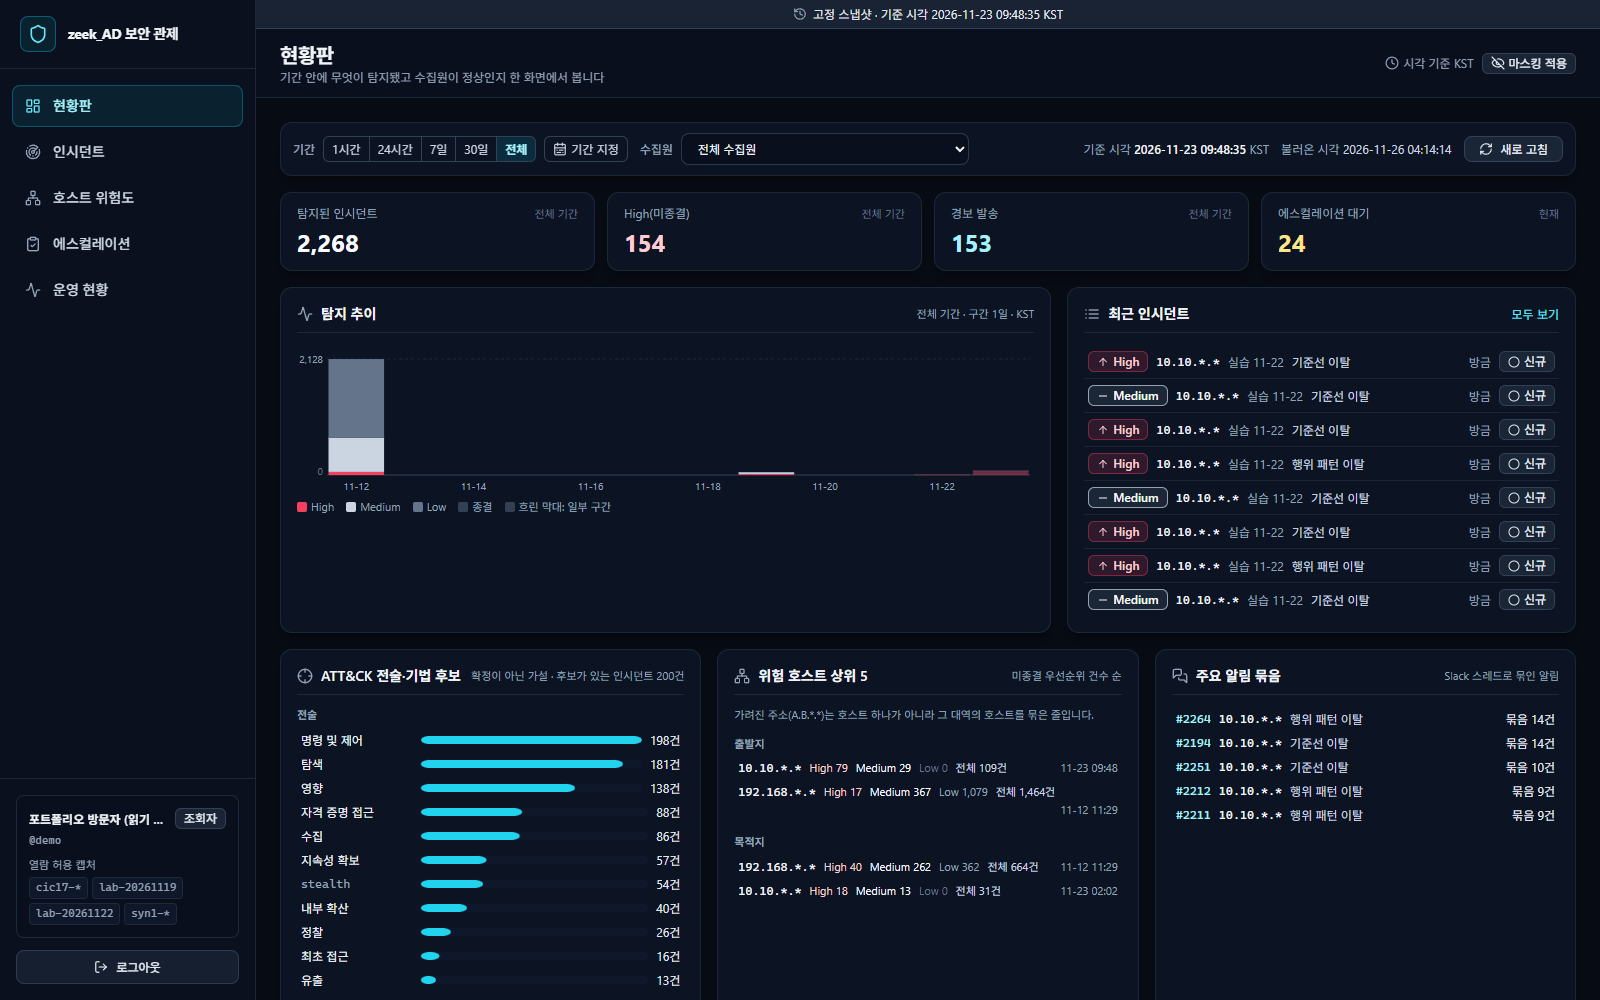
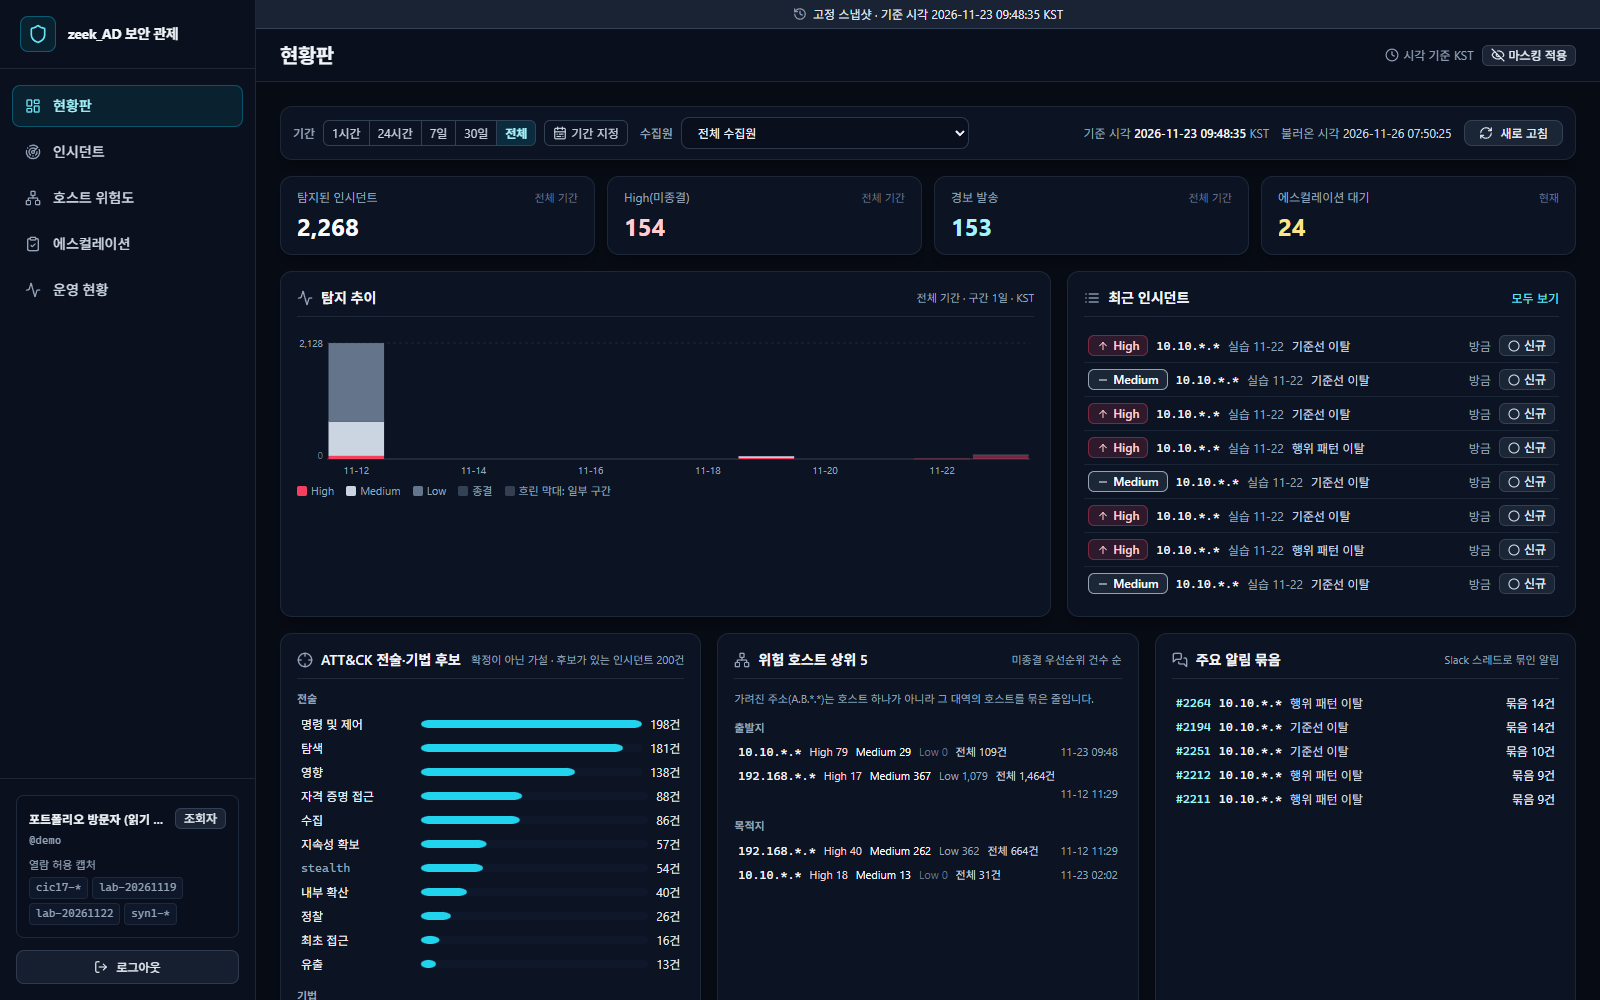
T48: 문서와 README 그림(설명 문장 삭제 반영: 용어 문서 이력, 변경 기록, 보안 검증 보고서 최근 검증 값, 그림 여섯 장)
- docs/ui-terminology.md 변경 이력: T47(호스트 위험도·운영 현황 수집원 선택 목록의 마지막 탐지 글 없앰), T48(화면 제목 아래 설명 없앰)
- docs/changelog.md: T48 행, 머리말 범위 T01~T48. README "문서"의 작업 번호 범위
- 보안 검증 보고서 "최근 검증": E2E·리허설 commit d3e3fe9, Vitest 477개, 리허설 큐 중앙값 앞 이미지 380ms·새 이미지 376ms, Trivy 마지막 실행 T48(결과 같음)
- README 그림 01·02·05·07·08·09를 다시 찍음(머리말에 설명 문장 없음)

diff --git a/docs/security-verification-report.md b/docs/security-verification-report.md
@@ -4,16 +4,16 @@
 
 ## 최근 검증
 
-주요 변경 뒤 아래 검증을 다시 돌립니다. 가장 최근 E2E 실행과 리허설은 `T47`(2026-11-26, commit `c59de00`)이고 그 뒤에는 문서와 그림만 바뀌었습니다. 공개 주소 확인은 `T47` 앱 이미지 교체(2026-11-26) 뒤 결과입니다. 실행 기록 원본은 저장소 밖에 보관합니다.
+주요 변경 뒤 아래 검증을 다시 돌립니다. 가장 최근 E2E 실행과 리허설은 `T48`(2026-11-26, commit `d3e3fe9`)이고 그 뒤에는 문서와 그림만 바뀌었습니다. 공개 주소 확인은 `T47` 앱 이미지 교체(2026-11-26) 뒤 결과입니다. 실행 기록 원본은 저장소 밖에 보관합니다.
 
 | 검증 | 다시 돌리는 방법 | 결과 |
 |---|---|---|
-| 프론트엔드 타입 검사·Vitest·빌드, Gradle `check`(단위·통합·정적 보안 시험) | `npm --prefix frontend run typecheck`, `run test`, `run build`, `.\gradlew.bat check --rerun-tasks --no-daemon` | 모두 통과(Gradle 시험 271개, Vitest 470개, `T47`. `T44`~`T46`·`T45b`가 더한 인시던트 목록 `hostIp`·`attack` 조건, 묶음 표지, 호스트 위험도, 같은 호스트 인시던트, 조회자 관측 계정 가리기, 현황판 위협 패널 시험과 호스트 위험도·운영 현황 수집원 선택 목록 글 시험 포함) |
+| 프론트엔드 타입 검사·Vitest·빌드, Gradle `check`(단위·통합·정적 보안 시험) | `npm --prefix frontend run typecheck`, `run test`, `run build`, `.\gradlew.bat check --rerun-tasks --no-daemon` | 모두 통과(Gradle 시험 271개, Vitest 477개, `T48`. `T44`~`T46`·`T45b`가 더한 인시던트 목록 `hostIp`·`attack` 조건, 묶음 표지, 호스트 위험도, 같은 호스트 인시던트, 조회자 관측 계정 가리기, 현황판 위협 패널 시험과 호스트 위험도·운영 현황 수집원 선택 목록 글 시험, 일곱 화면의 제목 아래에 설명 문장이 없다는 시험 포함) |
 | VMware 구성 E2E(PostgreSQL 17 + WAF + SPA/JSON API, 역할별 권한·IDOR·마스킹·감사 로그) + OWASP ZAP 베이스라인 | `scripts/security-scan.ps1` | 종료 코드 `0`, `T44`~`T46`·`T45b` 기능 `[21]`(인시던트 목록 `hostIp`·`attack` 건수, 묶음 표지, 호스트 위험도 `/api/hosts`, 같은 호스트 인시던트, 현황판 새 집계가 독립 SQL과 같은 조건의 목록 건수와 같음. 조회자가 온전한 주소로 물으면 있는 호스트와 없는 호스트가 같은 `200`·0건. 조회자 응답에 온전한 IPv4와 계정 원문 없음. `*`가 든 호스트 조건과 공백이 든 ATT&CK 조건이 WAF를 지남. 허용 밖 `403`과 IDOR 감사, 형식 오류 `400`), 알림 묶음(허용 캡처 밖 구성원 제외·허용 밖 묶음 머리 식별자 숨김·`thread` 조건 `403`과 IDOR 감사·형식 오류 `400`) `[20]`, 사유·메모 길이 상한 `[17]`·사용자 지정 기간 `[18]`·AI 리포트 근거 새 칸의 조회자 IPv4 마스킹(객체 키 포함) `[19]`·Slack 알림 기록(`text`·`blocks`)의 조회자 IPv4 마스킹 `[4b]` 포함, ZAP High `0`·Medium `0`·Low `0`(허용 예외 `XSRF-TOKEN` 제외)·Informational `4` |
-| 공개 스택 리허설(스냅샷 복원, 시드, E2E `[0]`~`[8]`·`[T33]`(체험 계정 초기화, 주기 1분)·`[T25]`·`[T27]`·`[T29]`·`[T32]`·`[T36]`(익명 볼륨·조회 한도·HSTS·빠른 사람 사용 흉내)·`[T39]`(새 캡처 상세의 스레드 표시 칸·조회자 IPv4 마스킹, 숨김 캡처 부모 0, 옛 사건 번호 유지, 숨김 캡처 ID 노출 0)·`[T40]`(알림 묶음 11개의 목록 수와 상세 묶음 칸 = 독립 SQL, 숨김 캡처 구성원 14건 제외, 숨김 캡처 번호 `403`, 응답 시간)·`[T47]`(실제 스냅샷에서 `demo`·`trial-analyst`로 인시던트 목록 `hostIp`·`attack` 건수, 묶음 표지, 호스트 위험도, 같은 호스트 인시던트, 현황판 새 집계 = 독립 SQL·목록 건수, 조회자 응답의 온전한 IPv4·계정 원문·숨김 캡처 ID `0`, 공개 캡처의 IPv6 호스트 주소 `0`건, 전체 기간 인시던트 목록 중앙값 앞 이미지 364ms·새 이미지 378ms), ZAP) | `scripts/portfolio-verify.ps1` | 통과, ZAP High `0`·Medium `0`·Low `0`·Informational `4` |
+| 공개 스택 리허설(스냅샷 복원, 시드, E2E `[0]`~`[8]`·`[T33]`(체험 계정 초기화, 주기 1분)·`[T25]`·`[T27]`·`[T29]`·`[T32]`·`[T36]`(익명 볼륨·조회 한도·HSTS·빠른 사람 사용 흉내)·`[T39]`(새 캡처 상세의 스레드 표시 칸·조회자 IPv4 마스킹, 숨김 캡처 부모 0, 옛 사건 번호 유지, 숨김 캡처 ID 노출 0)·`[T40]`(알림 묶음 11개의 목록 수와 상세 묶음 칸 = 독립 SQL, 숨김 캡처 구성원 14건 제외, 숨김 캡처 번호 `403`, 응답 시간)·`[T47]`(실제 스냅샷에서 `demo`·`trial-analyst`로 인시던트 목록 `hostIp`·`attack` 건수, 묶음 표지, 호스트 위험도, 같은 호스트 인시던트, 현황판 새 집계 = 독립 SQL·목록 건수, 조회자 응답의 온전한 IPv4·계정 원문·숨김 캡처 ID `0`, 공개 캡처의 IPv6 호스트 주소 `0`건, 전체 기간 인시던트 목록 중앙값 앞 이미지 380ms·새 이미지 376ms), ZAP) | `scripts/portfolio-verify.ps1` | 통과, ZAP High `0`·Medium `0`·Low `0`·Informational `4` |
 | 공개 주소 확인(`demo` 로그인·마스킹·허용 캡처·숨김 캡처 `403`·보안 헤더·쿠키 속성 등) | [`docs/portfolio-deployment.md`](portfolio-deployment.md) 4.4 체크리스트(WAF 차단·깨진 XML 본문 `400`·전달 헤더 신뢰 포함) | PASS `248`, FAIL `0`. `[10f]` 전체 기간 인시던트 목록 응답 최댓값은 979ms입니다(기준 1초, `T43` 1,005ms). 반영 뒤 정각 초기화는 두 번 모두 OK입니다. 확인 항목: `T44`~`T46`·`T45b` 기능 `[T47]`(배포 화면 번들의 새 화면 글, `demo`·`trial-analyst`로 인시던트 목록 `hostIp`·`attack` 건수·묶음 표지·호스트 위험도·같은 호스트 인시던트·현황판 새 집계 = NAS 독립 SQL과 같은 조건의 목록 건수, `*`가 든 호스트 조건과 공백이 든 ATT&CK 조건이 WAF를 지남, 조회자 응답의 온전한 IPv4·계정 원문·숨김 캡처 ID `0`, 호스트 위험도·같은 호스트 인시던트·현황판·운영 현황 응답 최댓값 673ms), 배포 화면 번들의 "전체 기간" 링크·템플릿 리포트 문구와 `demo` 현황판 24시간에서 가져온 데이터 8개가 기간 안 0건·마지막 탐지 기간 밖이고 그 캡처의 전체 기간 목록이 1건 이상 `[T43]`, 배포 화면 번들의 조치 막힘 이유·운영 현황 "불러오지 못했습니다" 문구 `[T42]`, 요청 제한·최신 아님 안내 문구 `[T41]`, 알림 묶음 11개의 목록 수·`lab-20261122` 상세 88건의 묶음 칸 = 독립 SQL, 숨김 캡처 번호 `403`, 조회자 IPv4 `0`, 응답 시간 `[T40]`, 사용자 지정 기간 `[T34]`, 이전·다음 이동 = 목록 순서·응답 시간 `[T35]`, HSTS 하나·조회 한도·볼륨·초기화 `[T36]`, 리포트 있는 상세 112건의 근거 새 칸·조회자 IPv4 `0`·응답 시간 `[T37]`, Slack 기록 있는 상세 153건의 알림 기록 조회자 IPv4 `0` `[T38]`, `lab-20261122` 상세 88건 전부 200·조회자 IPv4 `0`·스레드 답글 117·채널 재알림 21, 옛 인시던트 번호 2,192건 그대로 `[T39]` |
 
-Trivy는 의존성이나 Dockerfile이 바뀔 때 돌립니다. 마지막 실행은 `T47`(2026-11-26, E2E 안)이고 결과는 `T31`(2026-11-22) 때와 같습니다.
+Trivy는 의존성이나 Dockerfile이 바뀔 때 돌립니다. 마지막 실행은 `T48`(2026-11-26, E2E 안)이고 결과는 `T31`(2026-11-22) 때와 같습니다.
 
 | 스캔 대상 | CRITICAL | HIGH | MEDIUM | 내용 |
 |---|---:|---:|---:|---|

diff --git a/docs/changelog.md b/docs/changelog.md
@@ -1,6 +1,6 @@
 # 변경 기록
 
-코드 주석, 시험 이름, 검증 스크립트 출력, 문서에 나오는 작업 번호(`T01`~`T47`)가 무엇을 바꾼 작업인지 적습니다. 커밋 메시지도 같은 번호로 시작합니다(`git log --grep T23`).
+코드 주석, 시험 이름, 검증 스크립트 출력, 문서에 나오는 작업 번호(`T01`~`T48`)가 무엇을 바꾼 작업인지 적습니다. 커밋 메시지도 같은 번호로 시작합니다(`git log --grep T23`).
 
 ## 작업 번호
 
@@ -55,6 +55,7 @@
 | `T45b` | 2026-11-25 | 현황판에 위협 가시성 패널 셋을 더함(`GET /api/dashboard/overview` 응답 `attack`·`topHosts`·`topThreads`·`topThreadsOmitted`). ATT&CK 전술·기법 후보 분포(리포트의 후보를 센 값, 기법은 상위 10개), 통신 방향별 위험 호스트 상위 5(미종결 High·Medium·Low 건수 순), 주요 알림 묶음 상위 5(Slack 스레드로 묶인 알림, 기간 내 건수 순). 각 줄의 건수는 그 줄을 눌러서 가는 인시던트 목록의 건수와 같음(알림 묶음은 전체 건수). 조회자는 가려진 주소(`A.B.*.*`) 단위로 묶어 보고 원문 주소가 응답에 나가지 않음. 읽기 질의 수는 인시던트·호스트·묶음 수와 무관함. `zeek_AD`와 DB 스키마는 그대로임 |
 | `T46` | 2026-11-25 | 호스트 위험도 화면 `/hosts`(메뉴 "호스트 위험도")와 `GET /api/hosts`를 더함. 현황판과 같은 조건(기간·수집원)의 인시던트를 호스트별로 묶어 미종결 우선순위 건수, 인시던트 수, 세션 수, 탐지 모델, 호스트 이름, 관측 계정, 마지막 탐지를 보이고 줄을 누르면 같은 조건의 인시던트 목록(`hostIp`)으로 감(줄의 인시던트 수는 그 목록의 건수와 같음). 분석가·관리자에게는 같은 캡처에서 목적지로 탐지된 뒤 출발지로 탐지된 호스트에 "목적지 → 출발지 전환" 표지를 붙임. 조회자는 가려진 주소(`A.B.*.*`) 단위로 묶고 전환을 판정하지 않으며 검색은 가려진 글에만 맞춤. 상세 요약 탭 맨 아래에 같은 호스트(조회자는 같은 대역)의 다른 인시던트를 발생 시각이 가까운 순으로 10건까지 보임(`GET /api/incidents/{jobId}/rank/{queueRank}/related-host-incidents`. 상세와 따로 불러 실패해도 그 구역에만 보임). 조회자에게 관측 계정 이름(`zeekad_name`)을 첫 글자 + `***`로 가림(그 전에는 원문이 나갔음). `zeek_AD`와 DB 스키마는 그대로임 |
 | `T47` | 2026-11-26 | E 단계(`T44`~`T46`, `T45b`)를 실제 스택에서 확인함(앱 코드는 그대로). 검증용 PostgreSQL 스키마·시드에 `zeekad_name`·`zeekad_name_kind` 열을 더함. VMware 구성 E2E에 `[21]`을 더함: 인시던트 목록의 `hostIp`·`attack` 건수, 묶음 표지, 호스트 위험도, 같은 호스트 인시던트, 현황판 새 집계가 독립 SQL과 같은 조건의 목록 건수와 같은지, `*`가 든 호스트 조건과 공백이 든 ATT&CK 조건이 WAF를 지나는지, 조회자 응답에 온전한 IPv4와 계정 원문이 없는지 봄. 공개 스택 리허설에 `[T47]`을 더함: 같은 확인을 실제 스냅샷에서 `demo`·`trial-analyst`로 하고 인시던트 목록 응답 시간을 앞 이미지와 같은 스택에서 견줌. README에 새 화면 안내와 호스트 위험도 그림을 더하고 그림 넷을 다시 찍음. 확인하다 찾은 틀린 표시를 고침: 호스트 위험도와 운영 현황의 수집원 선택 목록에 탐지가 있는 수집원까지 "탐지 없음"이 붙던 것(두 화면의 API는 마지막 탐지를 주지 않는데 값 없음을 탐지 없음으로 읽었음). 이제 두 화면의 목록에는 마지막 탐지 글을 붙이지 않고 인시던트 목록과 현황판은 그대로임. Trivy 파일 시스템 스캔이 git 작업 트리 상태 계산으로 시간 제한에 걸리지 않게 스캔 컨테이너에서 `.git`을 가리고 로컬 worktree 폴더를 뺌 |
+| `T48` | 2026-11-26 | 화면 제목 아래 설명 문장을 일곱 화면(현황판, 인시던트, 호스트 위험도, 에스컬레이션, 운영 현황, 사용자 관리, 감사 로그)에서 없앰. 관제 화면은 제목만으로 충분하고 설명은 작업 공간을 차지한다고 봄. 자료의 뜻을 한정하는 안내와 로그인 화면의 소개 한 줄은 그대로 둠. 공개 스택 리허설이 인시던트 목록 응답 시간을 견주는 앞 이미지의 기본값을 `t47`로 바꿈. README 그림 여섯 장(`01`·`02`·`05`·`07`·`08`·`09`)을 다시 찍음 |
 
 ## 검증 단계 이름
 

diff --git a/docs/ui-terminology.md b/docs/ui-terminology.md
@@ -196,6 +196,8 @@ zeek_AD와 공유하는 화면 표기 변경 기록이다(2026-11-20부터). 표
 | 2026-11-25 | T46 | 호스트 위험도 · 조건 줄과 빈 목록 | (없음) | 기간(기본 7일) / 수집원 / "호스트 주소·이름·계정 검색" + 적용 / 정렬(좁은 화면). 빈 목록 "<기간> 동안 인시던트가 탐지된 호스트가 없습니다."(조회자는 "대역이 없습니다") + "기간: 전체로 보기", 검색·거르기 중이면 "검색·거르기 조건에 맞는 호스트가 없습니다." + "검색·거르기 지우기" | 프론트엔드 | 0건의 까닭(기간인지 검색인지)을 적는다(T43 규칙) | 아니요 |
 | 2026-11-25 | T46 | 인시던트 상세 · 요약 탭 맨 아래 | (없음) | 구역 **같은 호스트의 다른 인시던트**(조회자는 "같은 대역(<A.B.\*.\*>) 인시던트"). "이 인시던트 말고 N건", 10건을 넘으면 "가까운 10건"과 "전체 보기". 줄: 번호 링크(번호가 없으면 "상세 보기") · 발생 시각 · 앞뒤 간격("3시간 전", "2일 뒤", "같은 시각") · 통신 방향 · 우선순위 · 상태 · 판정 · 탐지 모델 · 수집원 짧은 이름. 0건이면 "이 호스트에서 탐지된 다른 인시던트가 없습니다."(조회자 "같은 대역에서 …"), 실패하면 구역 안에 오류와 "다시 시도" | API `GET /api/incidents/{jobId}/rank/{queueRank}/related-host-incidents`, 프론트엔드 `RelatedHostIncidents` | 같은 호스트에서 앞뒤로 무슨 일이 있었는지 상세에서 바로 본다 | 아니요 |
 | 2026-11-25 | T46 | 인시던트 상세 · 증적 탭 "관측 계정"(조회자) | 계정 이름 원문(`zeekad_name`) | 첫 글자 + `***`(예 `j***`, 컴퓨터 계정 `W***`). 분석가·관리자는 원문 그대로다 | API 상세 `assetNames[].extraAttributes.zeekad_name`(서버 `MaskingService`) | Kerberos·NTLM 이름 칸은 가렸지만 화면이 먼저 보이는 이 값은 가리지 않고 있었다 | 아니요 |
+| 2026-11-26 | T47 | 호스트 위험도·운영 현황 · 수집원 선택 목록 | 선택지 뒤의 " · 탐지 없음"(값이 있으면 " · 마지막 탐지 …") | 없음(선택지 이름만) | 프론트엔드 `ConditionBar`(`withoutLastDetected`) | 두 화면의 API(`GET /api/hosts`, `GET /api/operations`)는 수집원의 마지막 탐지를 주지 않는다. 탐지가 있는 수집원에도 "탐지 없음"이 붙던 틀린 표시였다. 인시던트 목록과 현황판의 선택 목록은 그대로다 | 아니요 |
+| 2026-11-26 | T48 | 전체 · 화면 제목 아래 설명 | 제목 아래 설명 한 줄(현황판, 인시던트, 호스트 위험도, 에스컬레이션, 운영 현황, 사용자 관리, 감사 로그) | 없음(제목만) | 프론트엔드 `AppShell`(`subtitle` 인자를 없앰) | 관제 화면은 제목만으로 충분하고 화면 설명은 작업 공간을 차지한다. 자료의 뜻을 한정하는 안내(현황판 ATT&CK 패널의 "확정이 아닌 가설", 조회자의 대역 안내 등)와 로그인 화면의 소개 한 줄은 그대로다 | 아니요 |
 
 ## 처리 흐름 용어 (T25)
 

diff --git a/README.md b/README.md
@@ -160,7 +160,7 @@ powershell -NoProfile -ExecutionPolicy Bypass -File scripts/security-scan.ps1 -E
 ## 문서
 
 - [주요 판단 기록](docs/design-decisions.md)
-- [변경 기록](docs/changelog.md): 코드와 시험 이름에 나오는 작업 번호(`T01`~`T47`)
+- [변경 기록](docs/changelog.md): 코드와 시험 이름에 나오는 작업 번호(`T01`~`T48`)
 - [배포 및 운영 가이드](docs/deployment-guide.md): VMware 실습 환경
 - [포트폴리오 공개 배포 안내서](docs/portfolio-deployment.md): 공개 데모(Synology NAS)
 - [보안 검증 보고서](docs/security-verification-report.md)
